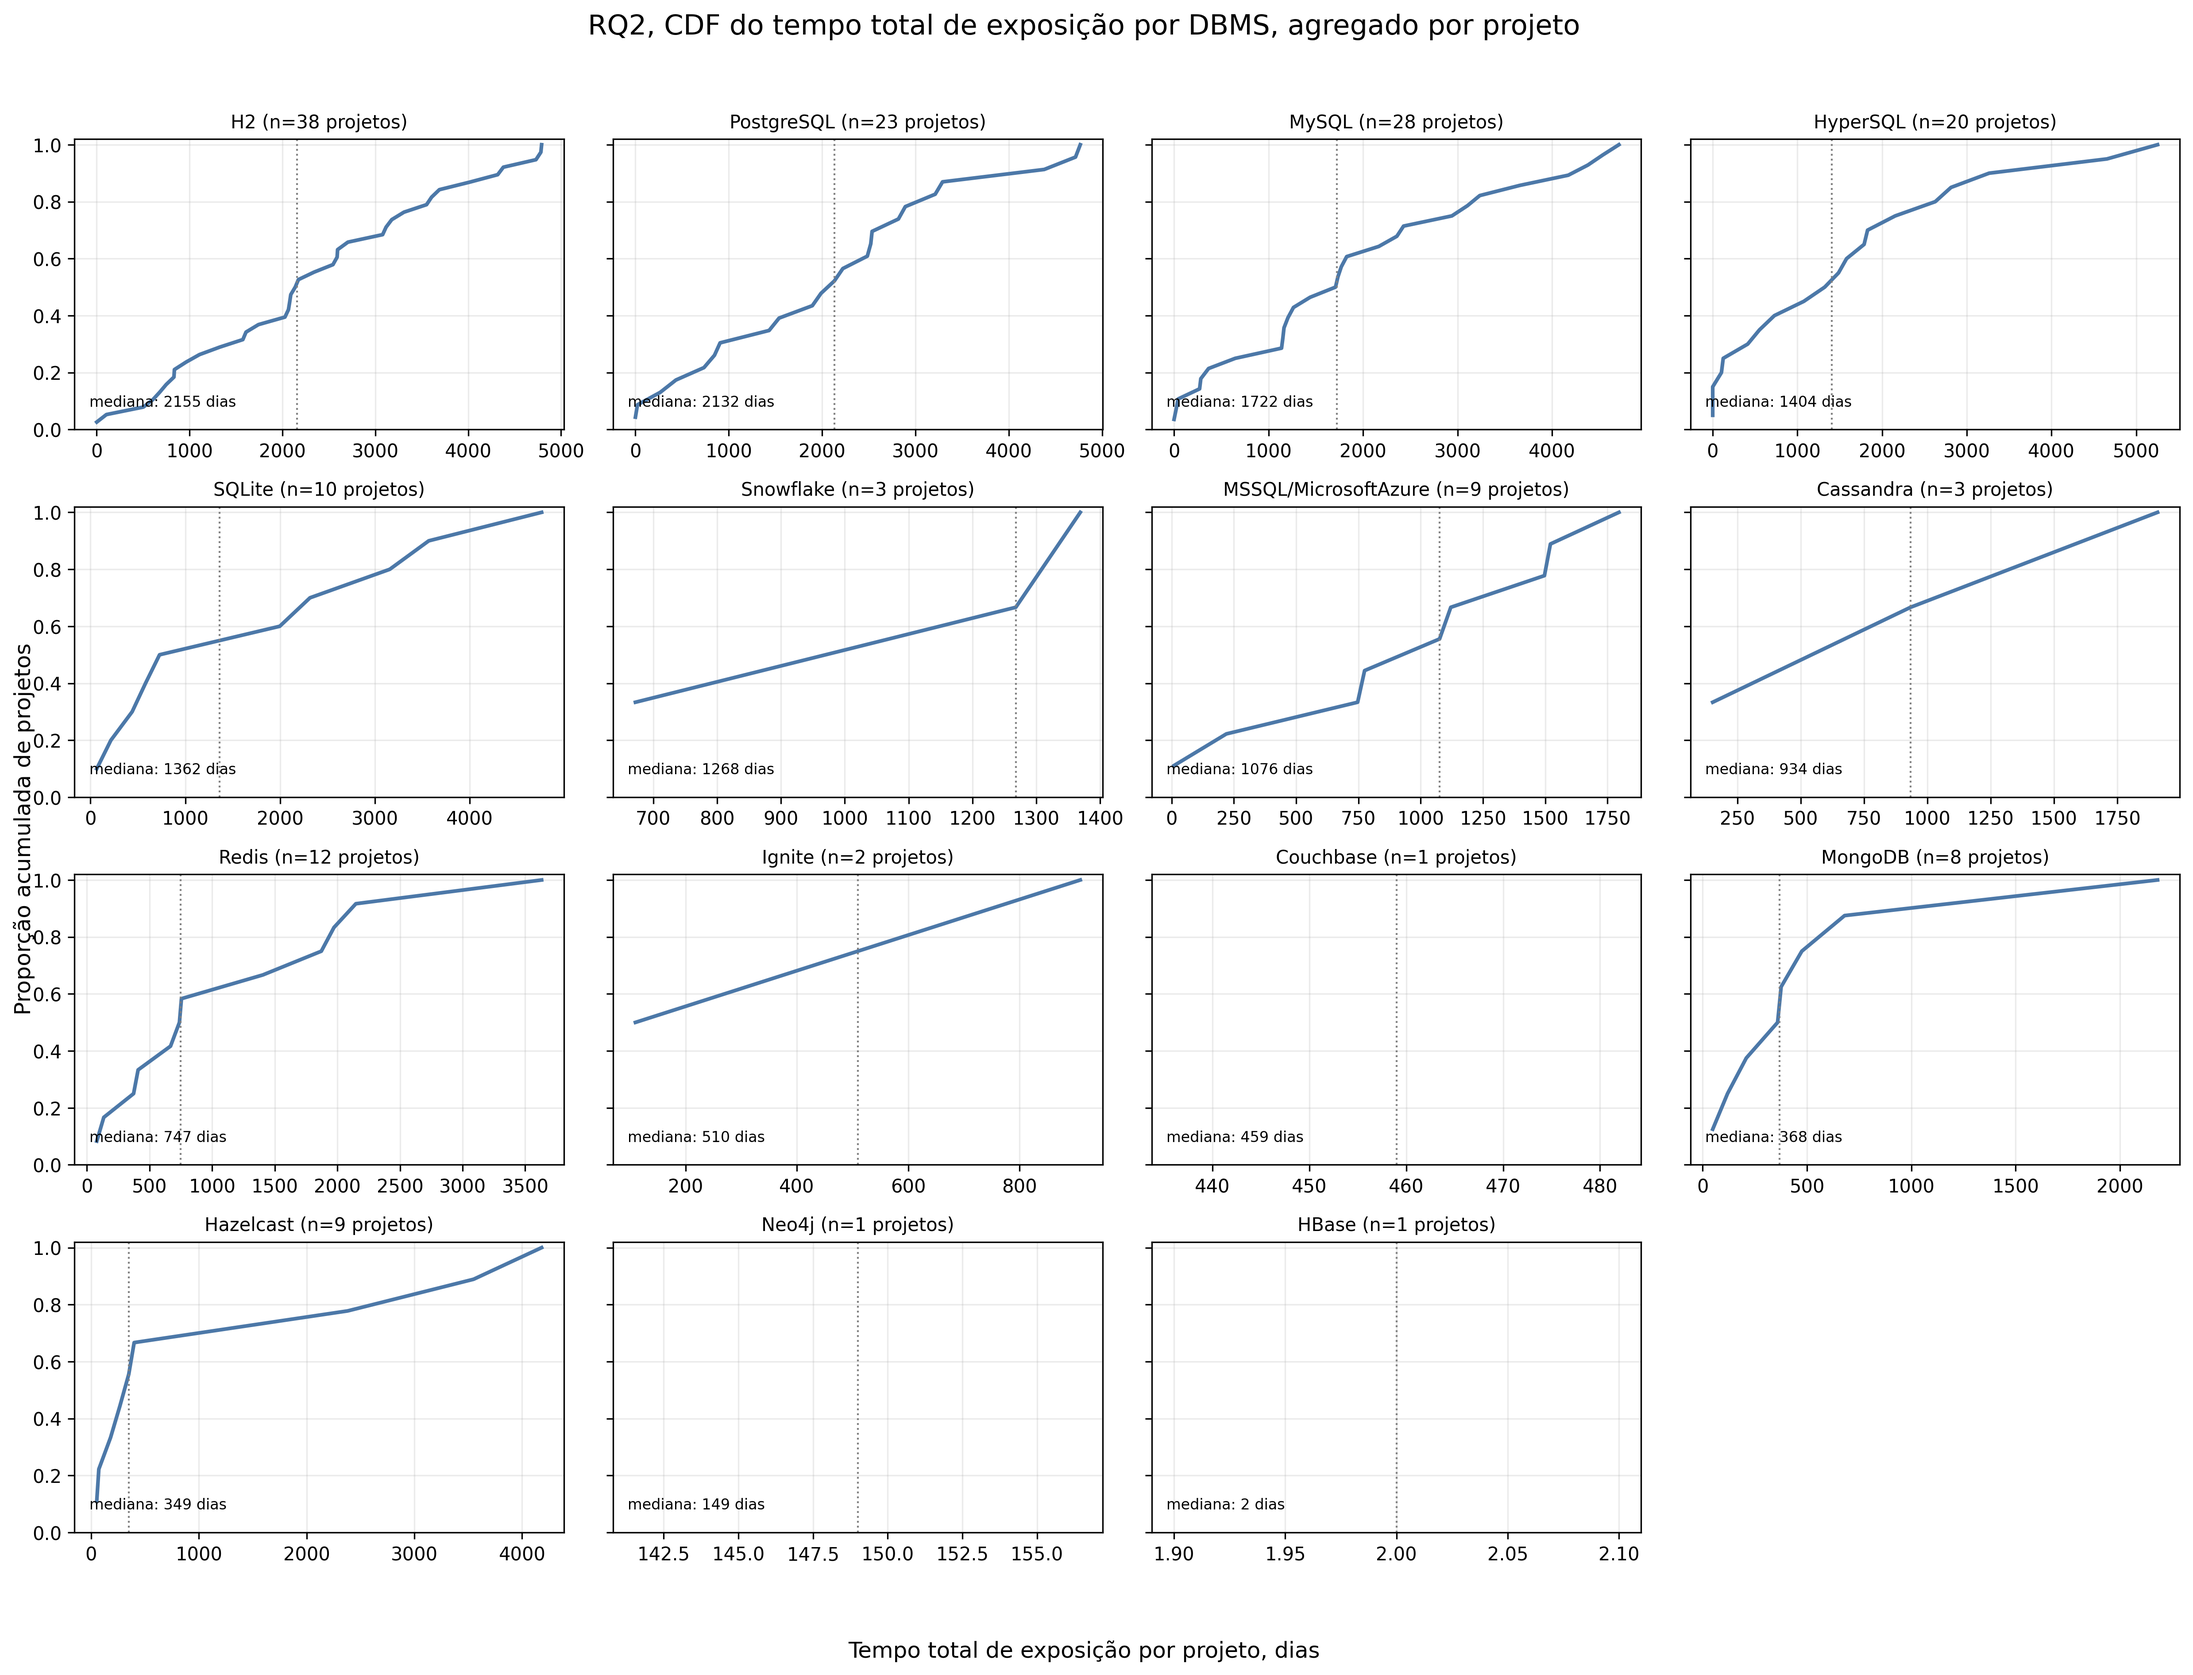
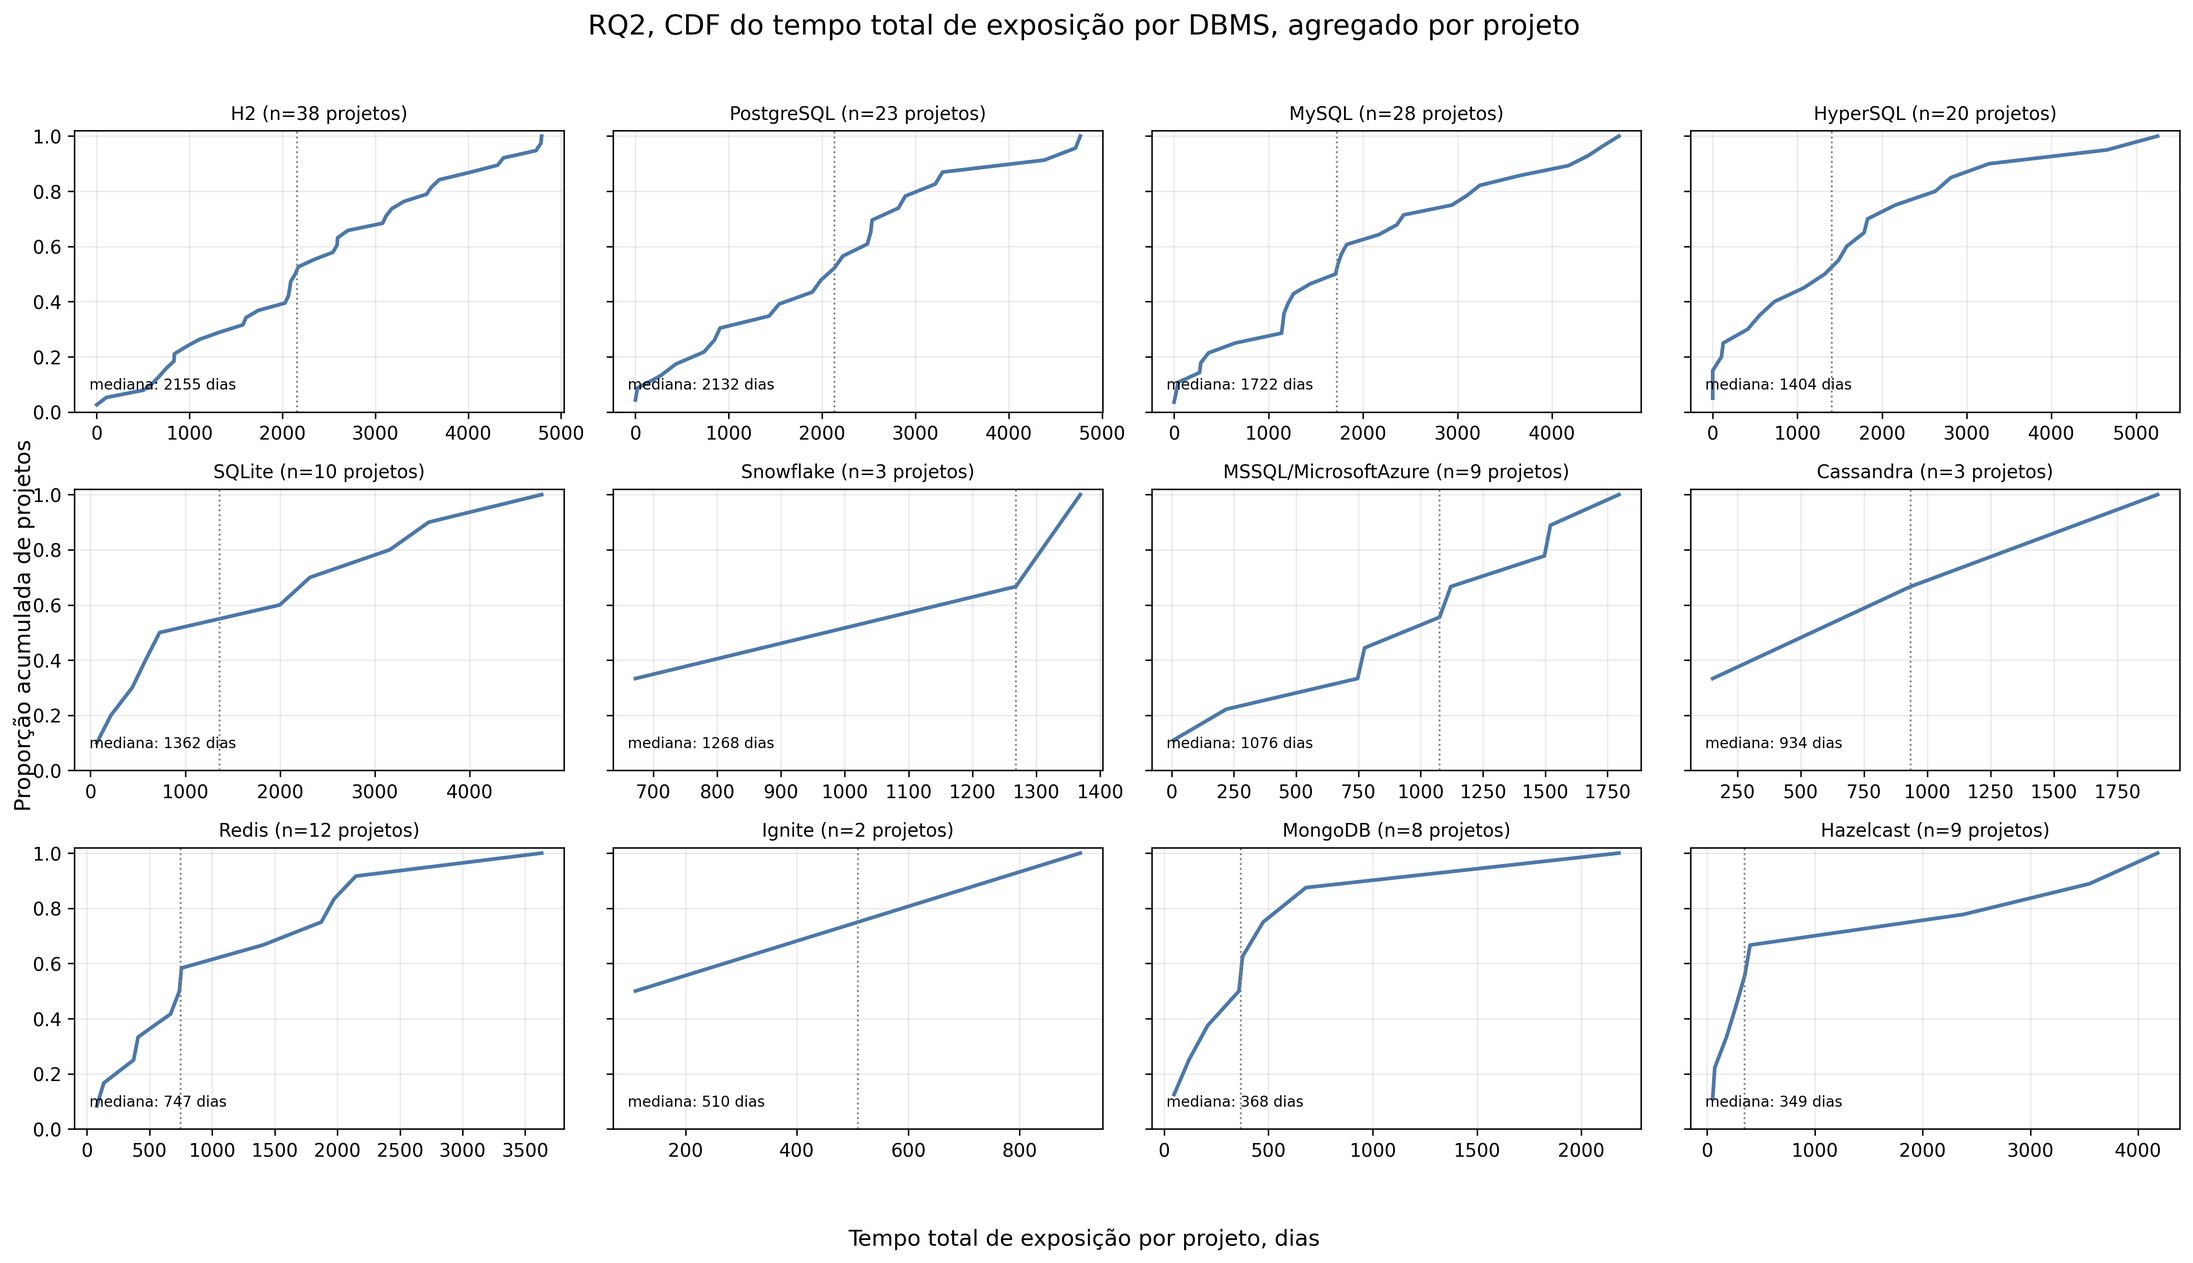
Atualização Rq2 CDF

diff --git a/src/gerar_rq2.py b/src/gerar_rq2.py
@@ -16,6 +16,7 @@ logging.basicConfig(
 DEFAULT_INPUT_DIR = "rqs_data"
 DEFAULT_OUTPUT_DIR = "graficos_rq2"
 DEFAULT_INPUT_FILE = "rq2_exposicoes.csv"
+MIN_PROJECTS_FOR_CDF = 2
 
 # Nome da coluna que identifica o commit no seu CSV.
 # Ajuste se o nome for diferente (ex: "commit_id", "sha", "revision", etc.)
@@ -113,13 +114,29 @@ def export_project_level_data(df_project, input_dir):
     logging.info("CSV agregado por projeto salvo em: %s", output_path)
 
 
-def plot_cdf_small_multiples_by_project(df_project, output_dir):
+def plot_cdf_small_multiples_by_project(df_project, output_dir, min_projects=MIN_PROJECTS_FOR_CDF):
     if df_project.empty:
         logging.warning("Nenhum dado disponível para gerar o CDF.")
         return
 
+    project_counts = df_project.groupby("db")["project_id"].nunique()
+    excluded_dbs = project_counts[project_counts < min_projects].index.tolist()
+
+    if excluded_dbs:
+        logging.info(
+            "DBMS removidos do CDF por terem menos de %d projetos: %s",
+            min_projects,
+            ", ".join(excluded_dbs),
+        )
+
+    df_plot = df_project[df_project["db"].isin(project_counts[project_counts >= min_projects].index)].copy()
+
+    if df_plot.empty:
+        logging.warning("Nenhum DBMS com pelo menos %d projetos para gerar o CDF.", min_projects)
+        return
+
     db_order = (
-        df_project.groupby("db")["total_exposure_days"]
+        df_plot.groupby("db")["total_exposure_days"]
         .median()
         .sort_values(ascending=False)
         .index
@@ -141,7 +158,7 @@ def plot_cdf_small_multiples_by_project(df_project, output_dir):
 
     for ax, db in zip(axes, db_order):
         values = (
-            df_project.loc[df_project["db"] == db, "total_exposure_days"]
+            df_plot.loc[df_plot["db"] == db, "total_exposure_days"]
             .dropna()
             .sort_values()
         )
